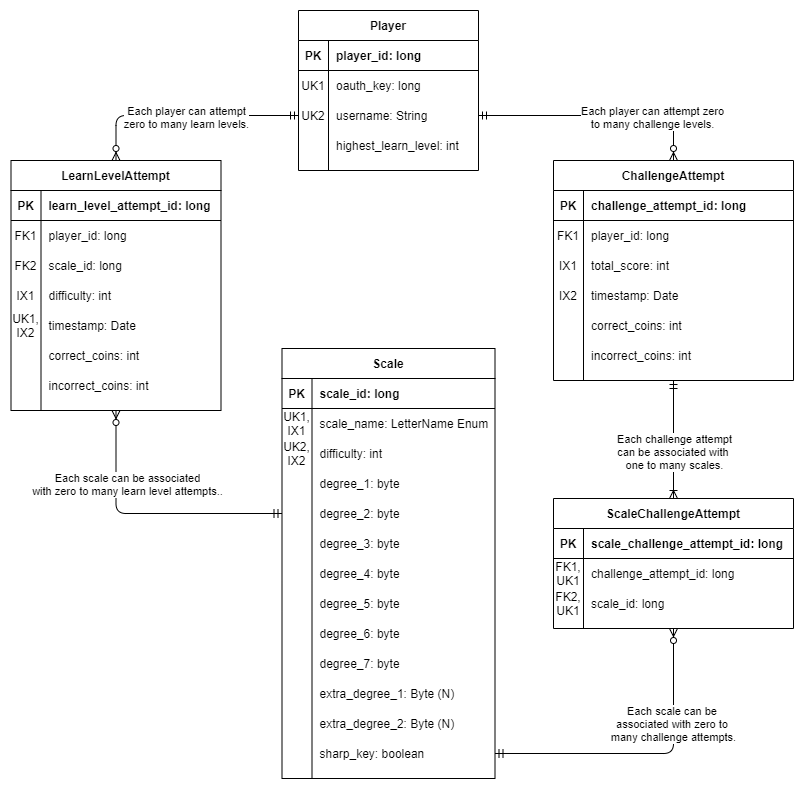
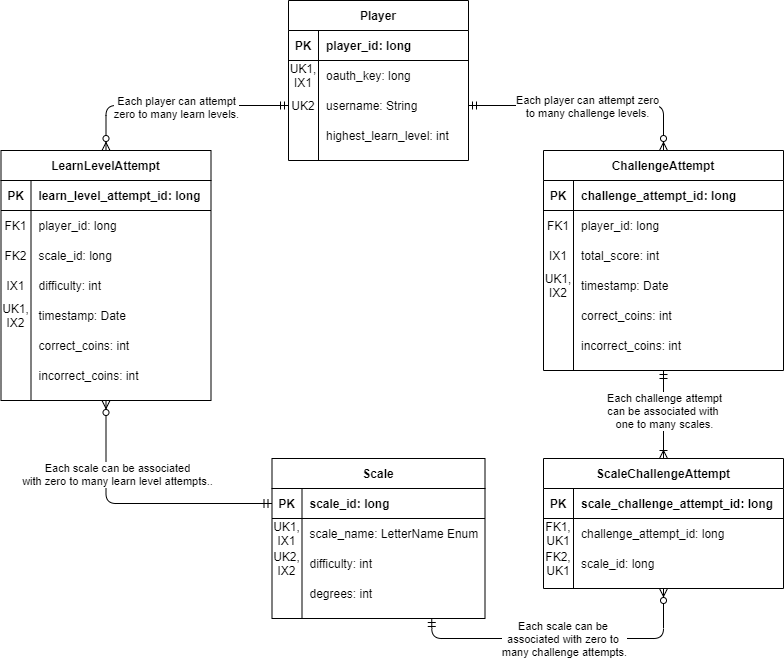
Some changes to entity classes.

diff --git a/app/src/main/java/edu/cnm/deepdive/scalescroller/model/entity/Scale.java b/app/src/main/java/edu/cnm/deepdive/scalescroller/model/entity/Scale.java
@@ -8,8 +8,8 @@ import androidx.room.PrimaryKey;
 
 @Entity(
     indices = {
-        @Index(value = "scale_name", unique = true),
-        @Index(value = "difficulty", unique = true)
+        @Index(value = {"scale_name"}, unique = true),
+        @Index(value = {"difficulty"}, unique = true)
     }
 )
 public class Scale {
@@ -18,17 +18,22 @@ public class Scale {
   @ColumnInfo(name = "scale_id")
   private long id;
 
+  @SuppressWarnings("NotNullFieldNotInitialized")
   @NonNull
   @ColumnInfo(name = "scale_name")
   private LetterName scaleName;
 
   private int difficulty;
 
-  // This short will represent the scale degrees by bit.
-  private short degrees;
-
-  @ColumnInfo(name = "sharp_key")
-  private boolean sharpKey;
+  /*This int will represent the scale degrees by bit:
+    32 bits:
+      7 for white key note names: CDEFGAB
+      + 7 for sharp notes C#D#E#F#G#A#B#
+      + 7 for flat notes CbDbEbFbGbAbBb
+      + 3 bits for unusual note names: FxCxGx
+      + 8 empty (unused) bits
+   */
+  private int degrees;
 
   public long getId() {
     return id;
@@ -55,23 +60,15 @@ public class Scale {
     this.difficulty = difficulty;
   }
 
-  public short getDegrees() {
+  public int getDegrees() {
     return degrees;
   }
 
-  public void setDegrees(short degrees) {
+  public void setDegrees(int degrees) {
     this.degrees = degrees;
   }
 
-  public boolean isSharpKey() {
-    return sharpKey;
-  }
-
-  public void setSharpKey(boolean sharpKey) {
-    this.sharpKey = sharpKey;
-  }
-
-  private enum LetterName {
+  public enum LetterName {
     C_MAJOR, C_SHARP_MAJOR, D_MAJOR, E_FLAT_MAJOR, E_MAJOR, F_MAJOR,
     F_SHARP_MAJOR, G_MAJOR, A_FLAT_MAJOR, A_MAJOR, B_FLAT_MAJOR, B_MAJOR,
 
@@ -85,5 +82,11 @@ public class Scale {
     C_MINOR_MEL, C_SHARP_MINOR_MEL, D_MINOR_MEL, E_FLAT_MINOR_MEL,
     E_MINOR_MEL, F_MINOR_MEL, F_SHARP_MINOR_MEL, G_MINOR_MEL,
     A_FLAT_MINOR_MEL, A_MINOR_MEL, B_FLAT_MINOR_MEL, B_MINOR_MEL,
+
+    USER_SUBMITTED;
+
+    public int startingNote(LetterName scaleName) {
+      return scaleName.ordinal() % 12;
+    }
   }
 }

diff --git a/app/src/main/java/edu/cnm/deepdive/scalescroller/model/entity/LearnLevelAttempt.java b/app/src/main/java/edu/cnm/deepdive/scalescroller/model/entity/LearnLevelAttempt.java
@@ -10,7 +10,6 @@ import java.util.Date;
 
 @Entity(
   indices = {
-    @Index(value = {"difficulty"}, unique = false),
     @Index(value = {"timestamp"}, unique = true)
   },
   foreignKeys = {
@@ -34,22 +33,22 @@ public class LearnLevelAttempt {
   @ColumnInfo(name = "learn_level_attempt_id")
   private long id;
 
-  @NonNull
   @ColumnInfo(name = "player_id")
   private long playerId;
 
-  @NonNull
   @ColumnInfo(name = "scale_id")
   private long scaleId;
 
-  @ColumnInfo
+  @ColumnInfo(index = true)
   private int difficulty;
 
   @NonNull
   private Date timestamp = new Date();
 
+  @ColumnInfo(name = "correct_coins")
   private int correctCoins;
 
+  @ColumnInfo(name = "incorrect_coins")
   private int incorrectCoins;
 
   public long getId() {

diff --git a/app/src/main/java/edu/cnm/deepdive/scalescroller/model/entity/ChallengeAttempt.java b/app/src/main/java/edu/cnm/deepdive/scalescroller/model/entity/ChallengeAttempt.java
@@ -10,7 +10,6 @@ import java.util.Date;
 
 @Entity(
     indices = {
-        @Index(value = {"total_score"}, unique = false),
         @Index(value = {"timestamp"}, unique = true)
     },
     foreignKeys = {
@@ -25,14 +24,14 @@ import java.util.Date;
 
 public class ChallengeAttempt {
 
-  @PrimaryKey
+  @PrimaryKey(autoGenerate = true)
   @ColumnInfo(name = "challenge_attempt_id")
-  private Long id;
+  private long id;
 
   @ColumnInfo(name = "player_id")
   private long playerId;
 
-  @ColumnInfo(name = "total_score")
+  @ColumnInfo(name = "total_score", index = true)
   private int totalScore;
 
   @NonNull

diff --git a/app/src/main/java/edu/cnm/deepdive/scalescroller/model/entity/ScaleChallengeAttempt.java b/app/src/main/java/edu/cnm/deepdive/scalescroller/model/entity/ScaleChallengeAttempt.java
@@ -3,9 +3,13 @@ package edu.cnm.deepdive.scalescroller.model.entity;
 import androidx.room.ColumnInfo;
 import androidx.room.Entity;
 import androidx.room.ForeignKey;
+import androidx.room.Index;
 import androidx.room.PrimaryKey;
 
 @Entity(
+    indices = {
+        @Index(value = {"challenge_attempt_id", "scale_id"}, unique = true)
+    },
     foreignKeys = {
         @ForeignKey(
             entity = Scale.class,

diff --git a/app/src/main/java/edu/cnm/deepdive/scalescroller/model/entity/Player.java b/app/src/main/java/edu/cnm/deepdive/scalescroller/model/entity/Player.java
@@ -6,9 +6,11 @@ import androidx.room.Entity;
 import androidx.room.Index;
 import androidx.room.PrimaryKey;
 
+@SuppressWarnings("NotNullFieldNotInitialized")
 @Entity(
     indices = {
-        @Index(value = "oauth_key", unique = true)
+        @Index(value = {"oauth_key"}, unique = true),
+        @Index(value = {"username"}, unique = true)
     }
 )
 public class Player {

diff --git a/app/src/main/java/edu/cnm/deepdive/scalescroller/model/dao/PlayerDao.java b/app/src/main/java/edu/cnm/deepdive/scalescroller/model/dao/PlayerDao.java
@@ -1,0 +1,8 @@
+package edu.cnm.deepdive.scalescroller.model.dao;
+
+import androidx.room.Dao;
+
+@Dao
+public interface PlayerDao {
+
+}

diff --git a/app/src/main/java/edu/cnm/deepdive/scalescroller/model/dao/ScaleChallengeAttemptDao.java b/app/src/main/java/edu/cnm/deepdive/scalescroller/model/dao/ScaleChallengeAttemptDao.java
@@ -1,0 +1,5 @@
+package edu.cnm.deepdive.scalescroller.model.dao;
+
+public interface ScaleChallengeAttemptDao {
+
+}

diff --git a/app/src/main/java/edu/cnm/deepdive/scalescroller/model/dao/LearnLevelAttemptDao.java b/app/src/main/java/edu/cnm/deepdive/scalescroller/model/dao/LearnLevelAttemptDao.java
@@ -1,0 +1,5 @@
+package edu.cnm.deepdive.scalescroller.model.dao;
+
+public interface LearnLevelAttemptDao {
+
+}

diff --git a/app/src/main/java/edu/cnm/deepdive/scalescroller/model/dao/ChallengeAttemptDao.java b/app/src/main/java/edu/cnm/deepdive/scalescroller/model/dao/ChallengeAttemptDao.java
@@ -1,0 +1,5 @@
+package edu.cnm.deepdive.scalescroller.model.dao;
+
+public interface ChallengeAttemptDao {
+
+}

diff --git a/app/src/main/java/edu/cnm/deepdive/scalescroller/model/dao/ScaleDao.java b/app/src/main/java/edu/cnm/deepdive/scalescroller/model/dao/ScaleDao.java
@@ -1,0 +1,5 @@
+package edu.cnm.deepdive.scalescroller.model.dao;
+
+public interface ScaleDao {
+
+}
